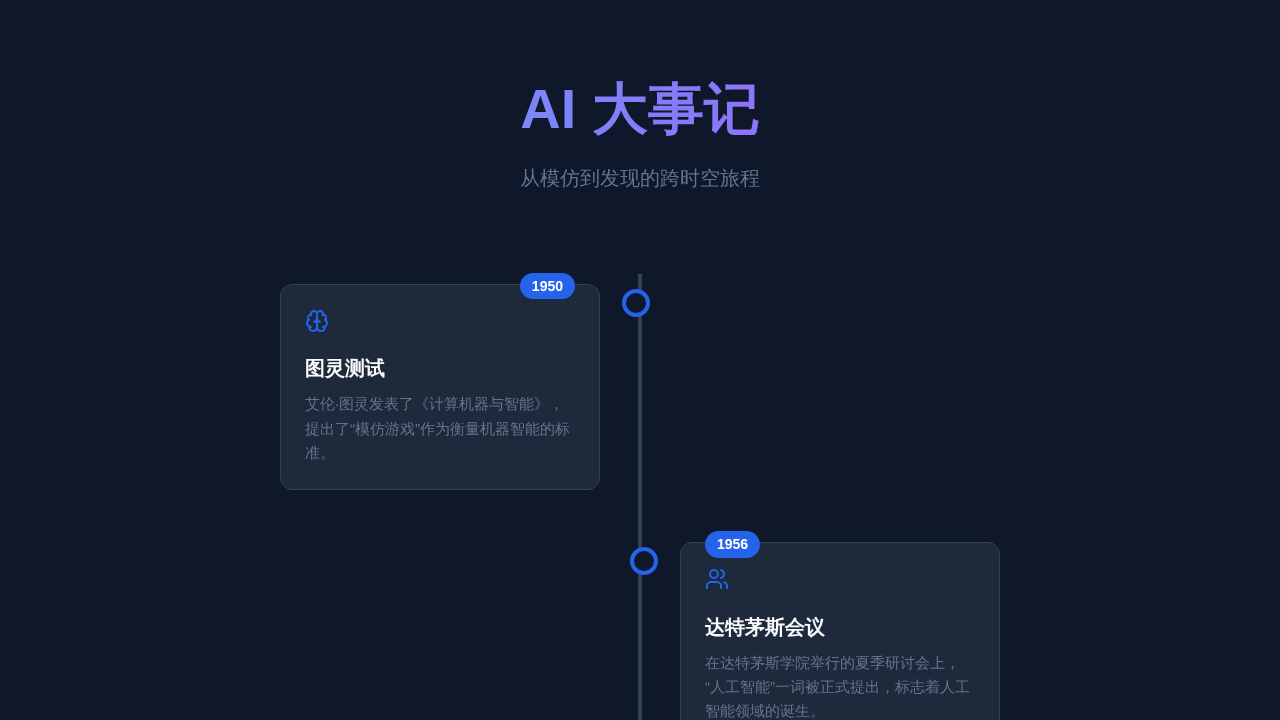
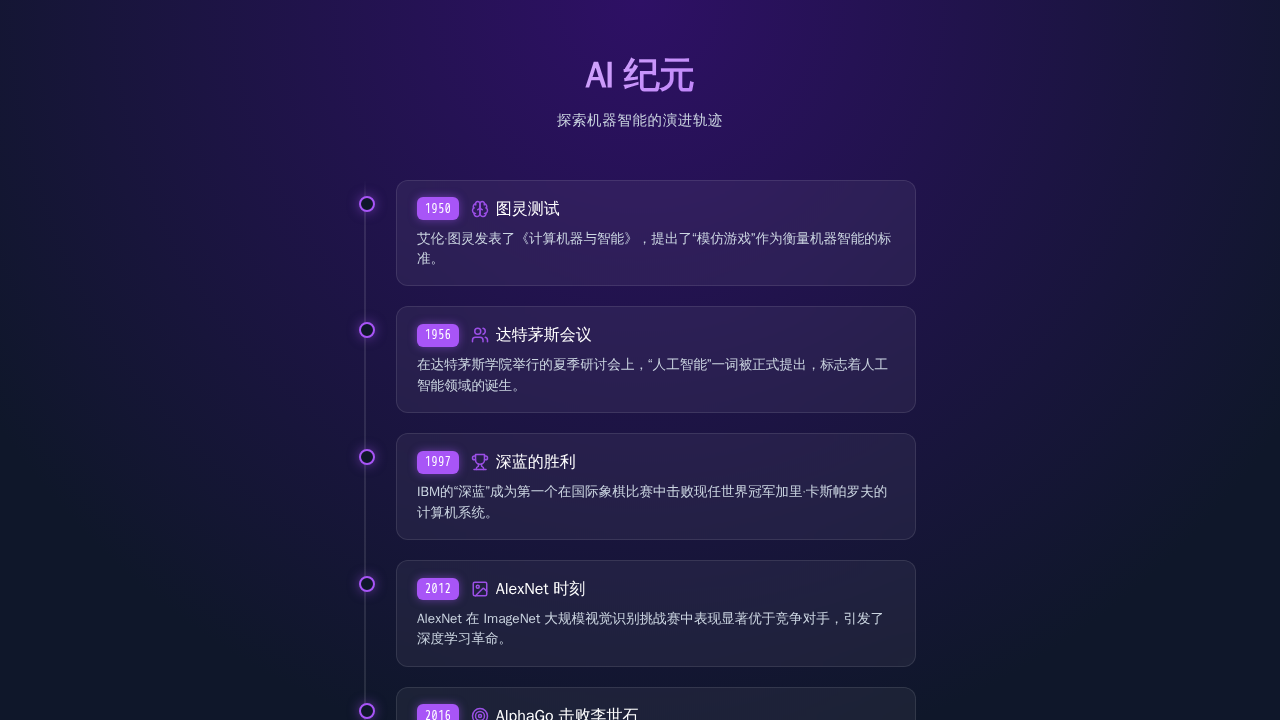
style: redesign UI with a spiritual dark theme and compact layout

diff --git a/src/App.css b/src/App.css
@@ -1,11 +1,13 @@
 :root {
-  --primary: #2563eb;
-  --secondary: #64748b;
-  --bg: #0f172a;
-  --text: #f8fafc;
-  --card-bg: #1e293b;
-  --border: #334155;
-  --highlight: #f59e0b;
+  --bg-color: #0f172a;
+  --glass-bg: rgba(255, 255, 255, 0.05);
+  --glass-border: rgba(255, 255, 255, 0.1);
+  --text-main: #f8fafc;
+  --text-muted: #cbd5e1;
+  --accent: #a855f7;
+  --accent-glow: rgba(168, 85, 247, 0.5);
+  --highlight-color: #10b981;
+  --highlight-glow: rgba(16, 185, 129, 0.5);
 }
 
 * {
@@ -15,177 +17,187 @@
 }
 
 body {
-  font-family: -apple-system, BlinkMacSystemFont, "Segoe UI", Roboto, Helvetica, Arial, sans-serif;
-  background-color: var(--bg);
-  color: var(--text);
-  line-height: 1.6;
+  background: radial-gradient(circle at 50% 0%, #2e1065, var(--bg-color) 80%);
+  background-attachment: fixed;
+  color: var(--text-main);
+  font-family: 'Inter', system-ui, -apple-system, sans-serif;
+  min-height: 100vh;
+  line-height: 1.5;
 }
 
-.container {
-  max-width: 1000px;
+.app-wrapper {
+  max-width: 600px;
   margin: 0 auto;
-  padding: 4rem 1rem;
+  padding: 3rem 1.5rem;
 }
 
 .header {
   text-align: center;
-  margin-bottom: 5rem;
+  margin-bottom: 3rem;
 }
 
 .header h1 {
-  font-size: 3.5rem;
+  font-size: 2.25rem;
   font-weight: 800;
-  margin-bottom: 0.5rem;
-  background: linear-gradient(to right, #60a5fa, #a855f7);
+  background: linear-gradient(135deg, #e9d5ff, #a855f7);
   -webkit-background-clip: text;
   -webkit-text-fill-color: transparent;
+  margin-bottom: 0.5rem;
+  letter-spacing: -0.02em;
 }
 
-.subtitle {
-  font-size: 1.25rem;
-  color: var(--secondary);
+.header p {
+  color: var(--text-muted);
+  font-size: 0.9rem;
+  letter-spacing: 0.05em;
+  text-transform: uppercase;
 }
 
 .timeline {
   position: relative;
-  max-width: 800px;
-  margin: 0 auto;
+  padding-left: 2rem;
 }
 
-.timeline::after {
+.timeline::before {
   content: '';
   position: absolute;
-  width: 4px;
-  background-color: var(--border);
+  left: 0;
   top: 0;
   bottom: 0;
-  left: 50%;
-  margin-left: -2px;
+  width: 2px;
+  background: linear-gradient(to bottom, transparent, var(--glass-border) 2%, var(--glass-border) 98%, transparent);
 }
 
-.timeline-item {
-  padding: 10px 40px;
+.node {
   position: relative;
-  background-color: inherit;
-  width: 50%;
-  margin-bottom: 2rem;
+  margin-bottom: 1.25rem;
 }
 
-.timeline-item::after {
+.node::before {
   content: '';
   position: absolute;
-  width: 20px;
-  height: 20px;
-  right: -10px;
-  background-color: var(--bg);
-  border: 4px solid var(--primary);
-  top: 15px;
+  left: -2.3125rem; 
+  top: 1rem;
+  width: 12px;
+  height: 12px;
   border-radius: 50%;
-  z-index: 1;
+  background: var(--bg-color);
+  border: 2px solid var(--accent);
+  box-shadow: 0 0 12px var(--accent-glow);
+  z-index: 2;
+  transition: all 0.3s ease;
 }
 
-.left {
-  left: 0;
+.node.highlighted::before {
+  border-color: var(--highlight-color);
+  box-shadow: 0 0 18px var(--highlight-glow);
+  background: var(--highlight-color);
 }
 
-.right {
-  left: 50%;
-}
-
-.right::after {
-  left: -10px;
-}
-
-.timeline-content {
-  padding: 1.5rem;
-  background-color: var(--card-bg);
-  position: relative;
+.glass-card {
+  background: var(--glass-bg);
+  backdrop-filter: blur(12px);
+  -webkit-backdrop-filter: blur(12px);
+  border: 1px solid var(--glass-border);
   border-radius: 12px;
-  border: 1px solid var(--border);
-  transition: transform 0.3s ease, border-color 0.3s ease;
+  padding: 1rem 1.25rem;
+  transition: transform 0.2s ease, background 0.2s ease, border-color 0.2s ease;
 }
 
-.timeline-content:hover {
-  transform: translateY(-5px);
-  border-color: var(--primary);
+.glass-card:hover {
+  background: rgba(255, 255, 255, 0.08);
+  transform: translateX(4px);
+  border-color: rgba(255, 255, 255, 0.2);
 }
 
-.year-badge {
-  position: absolute;
-  top: -12px;
-  background: var(--primary);
-  color: white;
-  padding: 2px 12px;
-  border-radius: 20px;
-  font-size: 0.875rem;
-  font-weight: 600;
+.node.highlighted .glass-card {
+  border-color: rgba(16, 185, 129, 0.3);
+  background: linear-gradient(145deg, rgba(16, 185, 129, 0.08), rgba(0,0,0,0));
 }
 
-.left .year-badge {
-  right: 1.5rem;
-}
-
-.right .year-badge {
-  left: 1.5rem;
-}
-
-.icon-wrapper {
-  color: var(--primary);
-  margin-bottom: 0.75rem;
-}
-
-.timeline-item.highlighted .year-badge {
-  background: var(--highlight);
-}
-
-.timeline-item.highlighted::after {
-  border-color: var(--highlight);
-}
-
-.timeline-item.highlighted .timeline-content {
-  border: 2px solid var(--highlight);
-  background: rgba(245, 158, 11, 0.05);
-}
-
-.timeline-item.highlighted h3 {
-  color: var(--highlight);
-}
-
-h3 {
-  font-size: 1.25rem;
+.node-header {
+  display: flex;
+  align-items: center;
+  gap: 0.75rem;
   margin-bottom: 0.5rem;
 }
 
-p {
-  font-size: 0.95rem;
-  color: var(--secondary);
+.year {
+  font-size: 0.75rem;
+  font-weight: 700;
+  color: #fff;
+  background: var(--accent);
+  padding: 0.15rem 0.5rem;
+  border-radius: 6px;
+  letter-spacing: 0.05em;
+  font-family: monospace;
+  box-shadow: 0 0 8px var(--accent-glow);
+}
+
+.node.highlighted .year {
+  background: var(--highlight-color);
+  box-shadow: 0 0 8px var(--highlight-glow);
+}
+
+.title {
+  font-size: 1rem;
+  font-weight: 600;
+  display: flex;
+  align-items: center;
+  gap: 0.4rem;
+  color: #fff;
+}
+
+.icon {
+  color: var(--accent);
+  opacity: 0.9;
+}
+
+.node.highlighted .icon {
+  color: var(--highlight-color);
+  opacity: 1;
+}
+
+.desc {
+  font-size: 0.85rem;
+  color: var(--text-muted);
 }
 
 .details {
-  margin-top: 1rem;
-  padding-top: 1rem;
-  border-top: 1px solid var(--border);
-  font-style: italic;
-  font-size: 0.875rem;
-  color: var(--text);
+  font-size: 0.75rem;
+  color: rgba(255,255,255,0.4);
+  margin-top: 0.75rem;
+  padding-top: 0.5rem;
+  border-top: 1px dashed var(--glass-border);
 }
 
 @media screen and (max-width: 600px) {
-  .timeline::after {
-    left: 31px;
+  .app-wrapper {
+    padding: 2rem 1rem;
   }
-  
-  .timeline-item {
-    width: 100%;
-    padding-left: 70px;
-    padding-right: 25px;
-  }
-  
-  .timeline-item::after {
-    left: 21px;
-  }
-  
-  .right {
-    left: 0%;
-  }
+}
+
+.header {
+  animation: fadeIn 1s ease-out;
+}
+
+.node {
+  animation: slideUp 0.6s ease-out backwards;
+}
+
+.node:nth-child(1) { animation-delay: 0.1s; }
+.node:nth-child(2) { animation-delay: 0.2s; }
+.node:nth-child(3) { animation-delay: 0.3s; }
+.node:nth-child(4) { animation-delay: 0.4s; }
+.node:nth-child(5) { animation-delay: 0.5s; }
+.node:nth-child(n+6) { animation-delay: 0.6s; }
+
+@keyframes fadeIn {
+  from { opacity: 0; transform: translateY(-10px); }
+  to { opacity: 1; transform: translateY(0); }
+}
+
+@keyframes slideUp {
+  from { opacity: 0; transform: translateY(20px); }
+  to { opacity: 1; transform: translateY(0); }
 }

diff --git a/src/App.jsx b/src/App.jsx
@@ -1,6 +1,7 @@
 import React from 'react';
 import { Brain, Users, Trophy, Image, Target, Zap, MessageSquare, Cpu, Star } from 'lucide-react';
 import { milestones } from './data';
+import './App.css';
 
 const IconMap = {
   brain: Brain,
@@ -16,10 +17,10 @@ const IconMap = {
 
 function App() {
   return (
-    <div className="container">
+    <div className="app-wrapper">
       <header className="header">
-        <h1>AI 大事记</h1>
-        <p className="subtitle">从模仿到发现的跨时空旅程</p>
+        <h1>AI 纪元</h1>
+        <p>探索机器智能的演进轨迹</p>
       </header>
 
       <div className="timeline">
@@ -28,18 +29,18 @@ function App() {
           return (
             <div 
               key={index} 
-              className={`timeline-item ${index % 2 === 0 ? 'left' : 'right'} ${item.highlight ? 'highlighted' : ''}`}
+              className={`node ${item.highlight ? 'highlighted' : ''}`}
             >
-              <div className="timeline-content">
-                <div className="year-badge">{item.year}</div>
-                <div className="content-inner">
-                  <div className="icon-wrapper">
-                    <Icon size={24} />
-                  </div>
-                  <h3>{item.title}</h3>
-                  <p>{item.description}</p>
-                  {item.details && <div className="details">{item.details}</div>}
+              <div className="glass-card">
+                <div className="node-header">
+                  <span className="year">{item.year}</span>
+                  <h3 className="title">
+                    <Icon size={18} className="icon" />
+                    {item.title}
+                  </h3>
                 </div>
+                <p className="desc">{item.description}</p>
+                {item.details && <div className="details">{item.details}</div>}
               </div>
             </div>
           );
